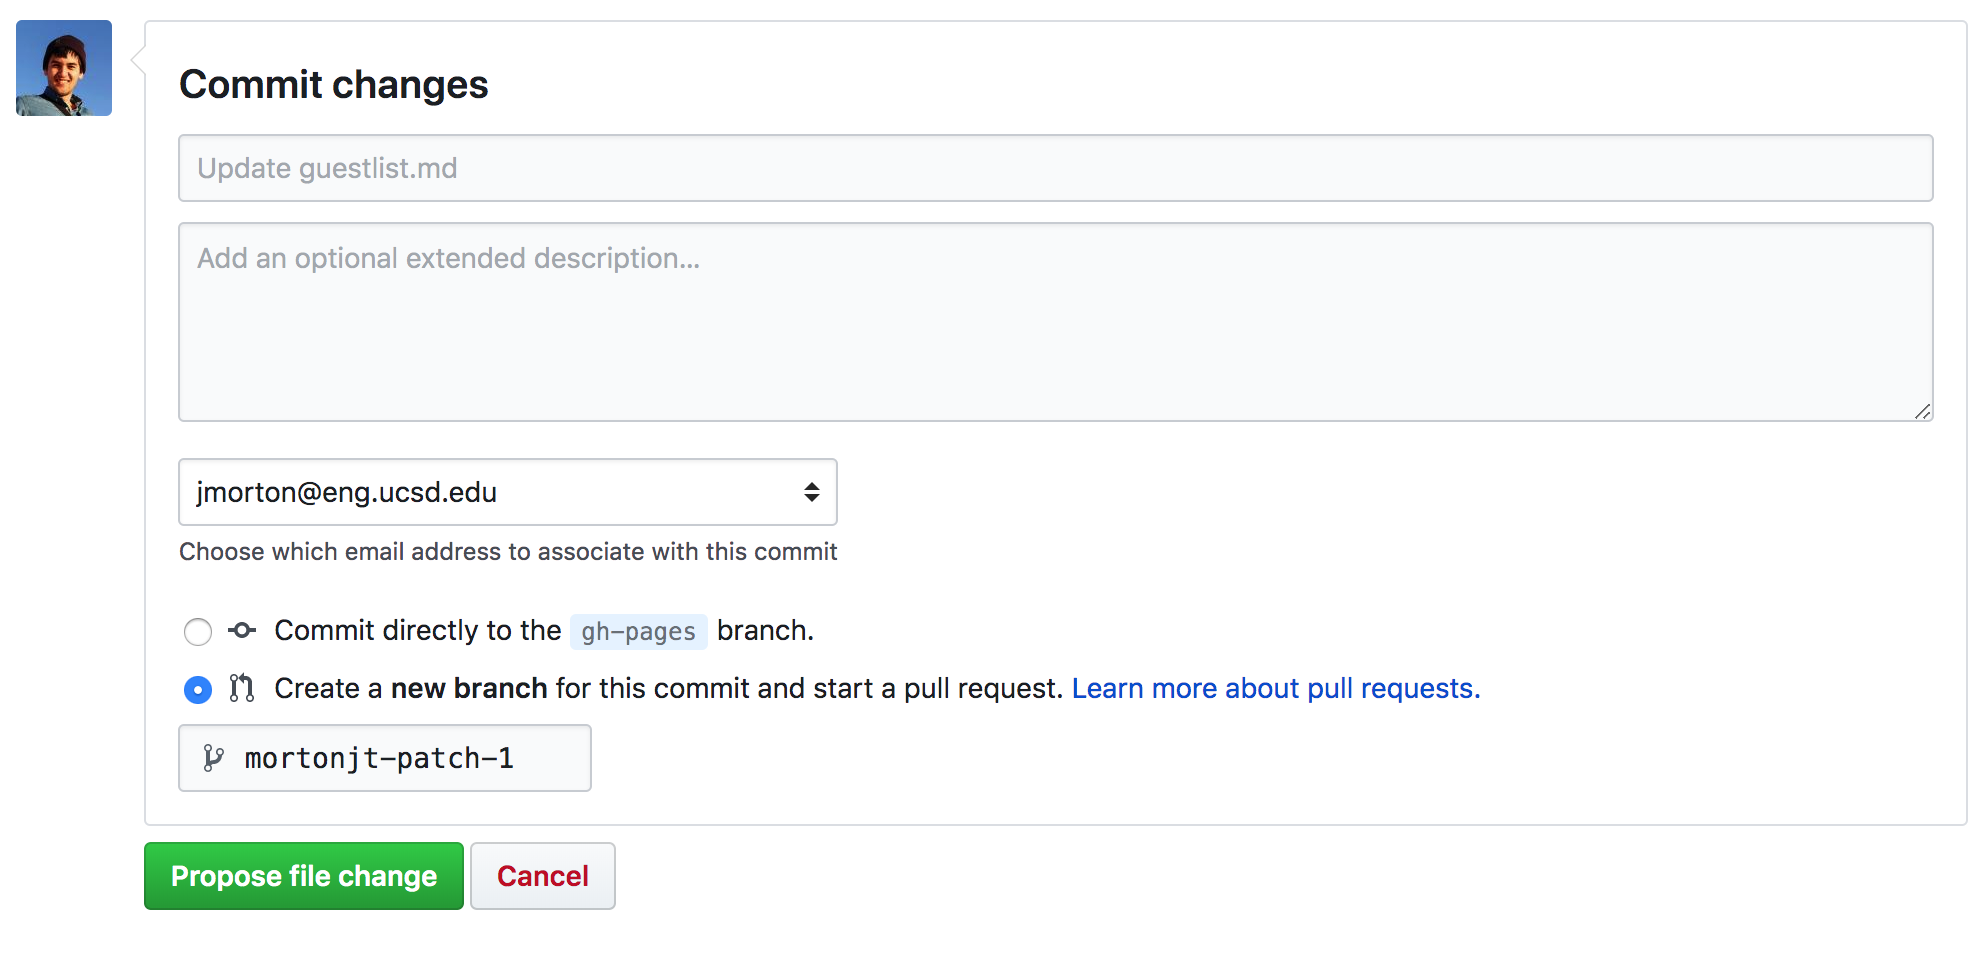
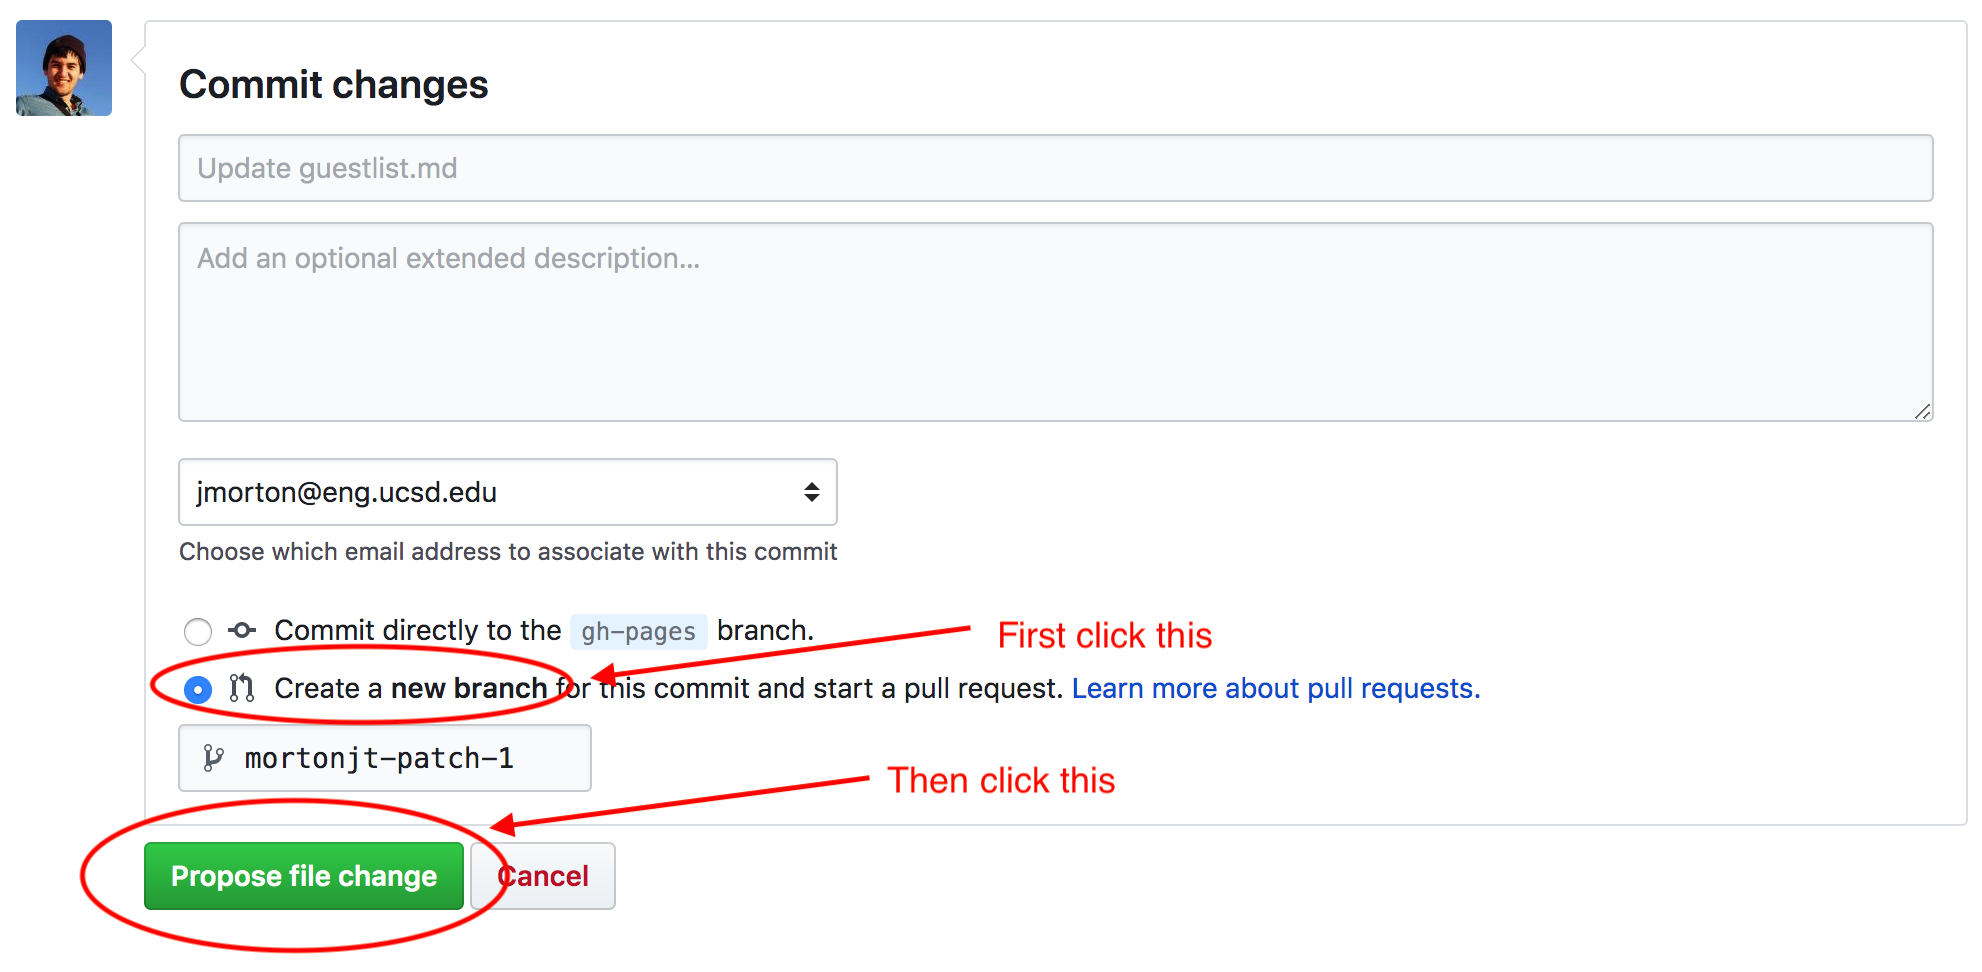
Adding images

diff --git a/other/guestlist.md b/other/guestlist.md
@@ -2,12 +2,19 @@
 
 Below is the guest list, please add your information below
 
-To do so, create a pull request by clicking like below
+To do so, create a pull request by clicking like [below](https://github.com/mortonjt/savethedate/blob/gh-pages/other/img/edit.png)
 
-Then insert your name,  email name, and significant other's name below (if you have a significant other).
+Then insert your name,  email name, and significant other's name (if you have a significant other).
+[Below](https://github.com/mortonjt/savethedate/blob/gh-pages/other/img/insert.png) is an example of how to do this with an imaginary guest John Doe.
 
+Finally, submit a pull request as shown [below](https://github.com/mortonjt/savethedate/blob/gh-pages/other/img/pr.png)
 
 | Name	| Email	| Significant-Other |
 | ---   | ----- | ----------------- |
 | Jamie Morton	| jamietmorton@gmail.com | 	Juer Song |
 
+
+
+We look forward to seeing you!
+
+If you have any problems, feel free to send an email to jamietmorton@gmail.com with your name, email and name significant other.
